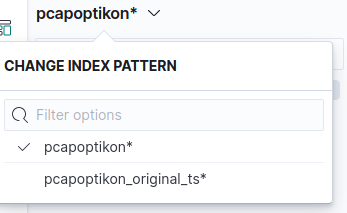
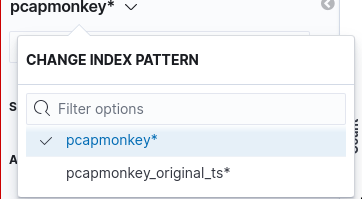
Rename

diff --git a/README.md b/README.md
@@ -34,9 +34,9 @@ The output should be the following:
 ```
 Name                       Command                       State                    Ports          
 ---------------------------------------------------------------------------------------------------------
-pcapopt_elasticsearch   /usr/local/bin/docker-entr ...   Up (health: starting)   9200/tcp, 9300/tcp      
-pcapopt_logstash        /usr/local/bin/docker-entr ...   Up                                              
-pcapopt_kibana          /usr/local/bin/dumb-init - ...   Up (health: starting)   127.0.0.1:5601->5601/tcp
+pcapmonkey_elasticsearch   /usr/local/bin/docker-entr ...   Up (health: starting)   9200/tcp, 9300/tcp      
+pcapmonkey_logstash        /usr/local/bin/docker-entr ...   Up                                              
+pcapmonkey_kibana          /usr/local/bin/dumb-init - ...   Up (health: starting)   127.0.0.1:5601->5601/tcp
 ```
 
 Kibana and elasticsearch could take a couple of minutes to start. You can monitor the progress by doing `docker-compose ps` and waiting for `starting` to go away.
